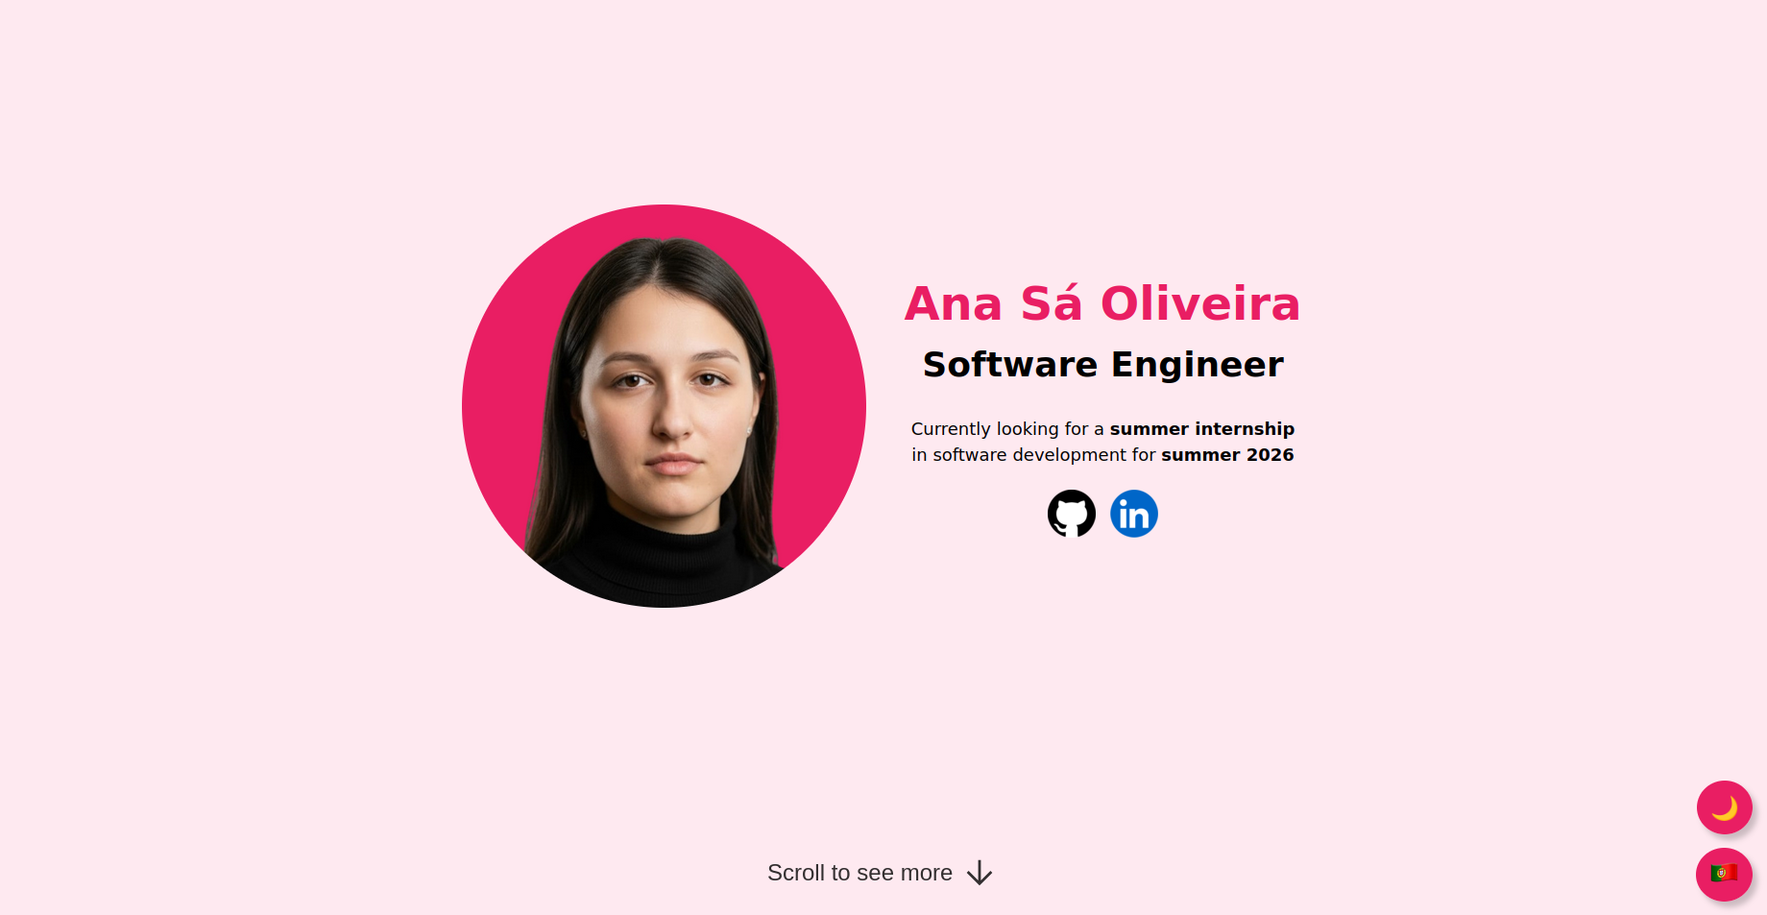
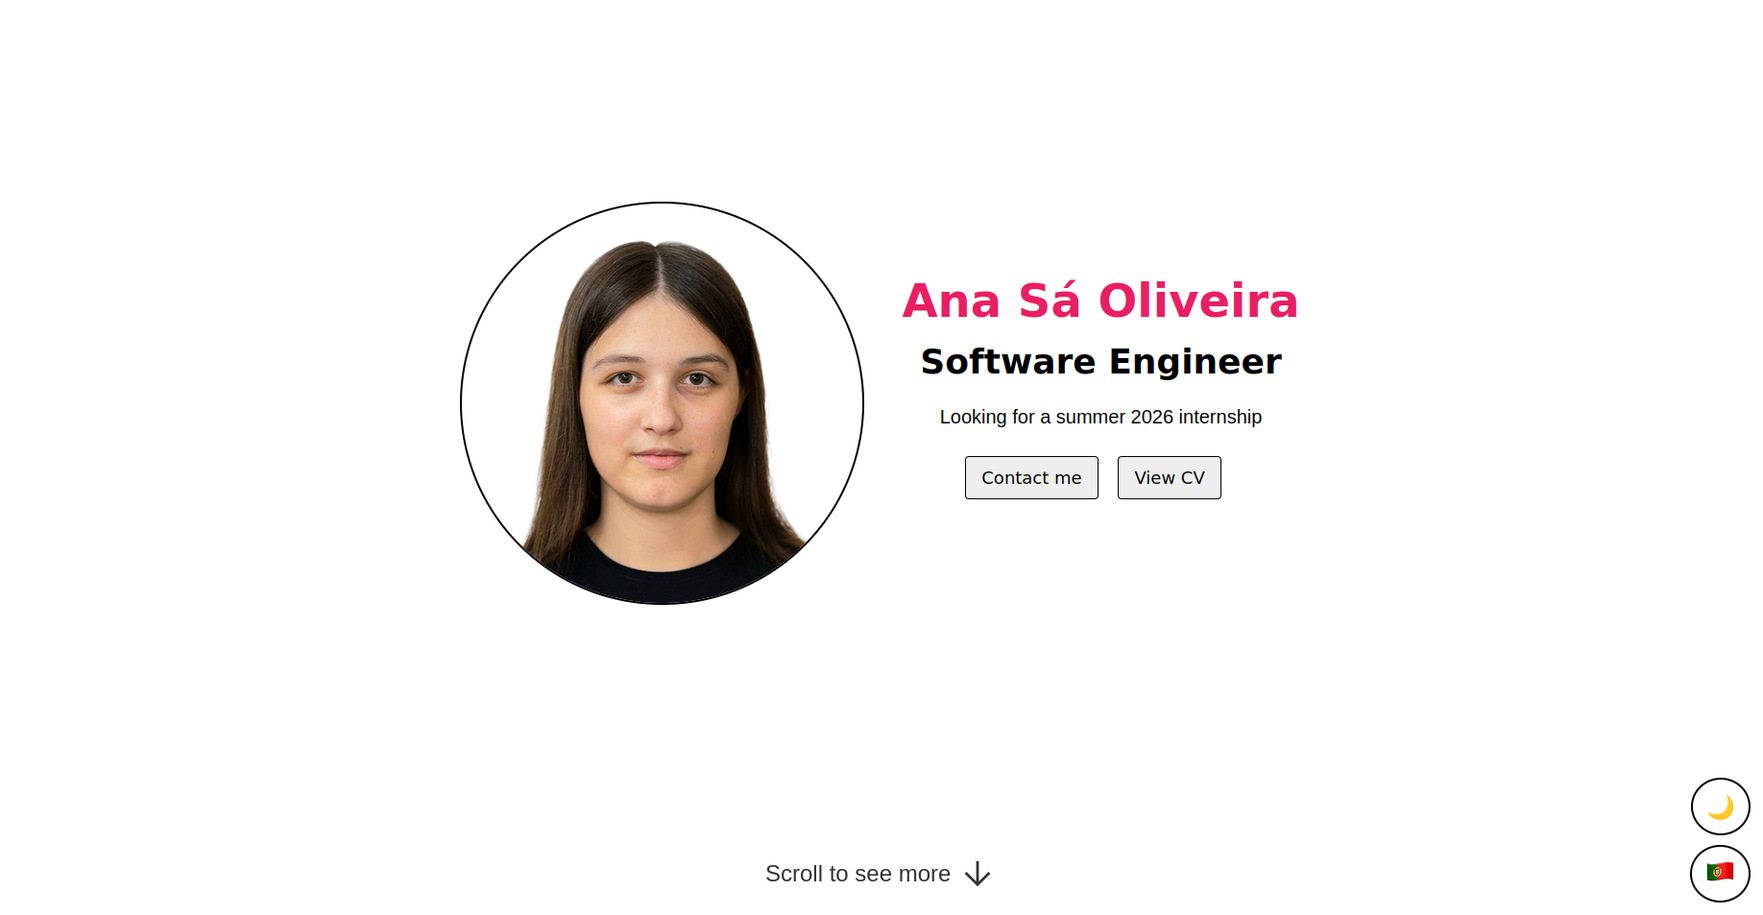
:)

Changed region(s): [[0.2484, 0.213, 0.7451, 0.6695], [0.9314, 0.852, 1.0, 1.0], [0.4346, 0.9433, 0.5588, 0.9738]]

diff --git a/index.html b/index.html
@@ -73,11 +73,10 @@
                 right: 20px;
                 padding: 10px 14px;
                 border-radius: 50%;
-                border: none;
+                border: 2px solid black;
                 font-size: 24px;
-                background-color: #e91e63;
+                background-color: #ffffff;
                 color: black;
-                box-shadow: 5px 6px 6px rgba(0,0,0,0.2);
                 cursor: pointer;
                 z-index: 9999;
             ">
@@ -90,11 +89,10 @@
                 right: 20px;
                 padding: 10px 14px;
                 border-radius: 50%;
-                border: none;
+                border: 2px solid black;
                 font-size: 24px;
-                background-color: #e91e63;
+                background-color: #ffffff;
                 color: black;
-                box-shadow: 5px 6px 6px rgba(0,0,0,0.2);
                 cursor: pointer;
                 z-index: 9999;
             ">
@@ -113,12 +111,12 @@
             const usarEscuro = temaSalvo ? temaSalvo === 'dark' : prefereEscuro;
         
             botao.textContent = usarEscuro ? '☀' : '🌙';
-            botao.style.backgroundColor = usarEscuro ? '#880732' : '#e91e63';
+            botao.style.backgroundColor = usarEscuro ? 'black' : 'white';
         
             botao.addEventListener('click', () => {
             const modoEscuroAtivo = root.classList.toggle('dark-mode');
             botao.textContent = modoEscuroAtivo ? '☀' : '🌙';
-            botao.style.backgroundColor = modoEscuroAtivo ? '#880732' : '#e91e63';
+            botao.style.backgroundColor = modoEscuroAtivo ? 'black' : 'white';
             localStorage.setItem('theme', modoEscuroAtivo ? 'dark' : 'light');
             });
 
@@ -142,7 +140,7 @@
 
         </script>
         <!-- Home -->
-        <div id="home" style=" background: #fee9f0; min-height: 100vh;display: flex; flex-direction: column;">
+        <div id="home" style=" background: white; min-height: 100vh;display: flex; flex-direction: column;">
             <!--
             <nav class="w3-bar w3-hide-small w3-hide-medium" style='display: flex; ; background-color:  transparent;'>
                 <div class="w3-bar-item" style="text-decoration: none;"></div>
@@ -202,11 +200,11 @@
                     <br w3-hide-large w3-hide-medium>
                     <div class="w3-hide-small w3-hide-medium w3-col s12 m12 l6">
                         <br>
-                        <img src="assets/img/Ana.png" class="important base-img w3-circle" style="width: 92%; max-width: 500px; height: auto;" alt="Ana Sá Oliveira">
+                        <img id="perfil" src="assets/img/Ana.png" class="important base-img w3-circle" style="width: 92%; max-width: 500px; height: auto; border: 2px solid black;" alt="Ana Sá Oliveira">
                     </div>
                     <div class="w3-hide-large w3-col s12 m12 l6">
                         <br>
-                        <img src="assets/img/Ana.png" class="important base-img w3-circle" style="width: 85%; max-width: 400px; height: auto;" alt="Ana Sá Oliveira">
+                        <img id="perfil" src="assets/img/Ana.png" class="important base-img w3-circle" style="width: 85%; max-width: 400px; height: auto; border: 2px solid black;" alt="Ana Sá Oliveira">
                     </div>
                     <div class="w3-col s12 m12 l6">
                         <br class="w3-hide-medium w3-hide-small">
@@ -249,17 +247,35 @@
                                 Software Engineer
                             </b>
                         </div>
-                        <div class="w3-hide-small w3-large" data-pt="<br>Atualmente à procura de um <b>estágio de<br>verão</b> em informática para o <b>verão 2026</b>">
+                        <div data-pt='<h4 class="w3-margin-top">Procuro estágio de verão para 2026</h4>
+                            <a href="#contact" class="w3-button w3-hover-custom w3-round w3-margin-top w3-margin-right w3-large" style="background-color: #eeeeee; color: black; border: 1px solid black;">
+                                Contactar-me
+                            </a>
+                            <a href="assets/cv/pt/cv.pdf" download class="w3-button w3-hover-custom w3-round w3-margin-top  w3-margin-right w3-large" style="background-color: #eeeeee; color: black; border: 1px solid black;">
+                                Ver CV
+                            </a>'>
+                            <h4 class="w3-margin-top">Looking for a summer 2026 internship</h4>
+                            <a href="#contact" class="w3-button w3-hover-custom w3-round w3-margin-top w3-margin-right w3-large" style="background-color: #eeeeee; color: black; border: 1px solid black;">
+                                Contact me
+                            </a>
+                            <a href="assets/cv/pt/cv.pdf" download class="w3-button w3-hover-custom w3-margin-top w3-round w3-margin-right w3-large" style="background-color: #eeeeee; color: black; border: 1px solid black;">
+                                View CV
+                            </a>
+                            <!--
                             <br>
                             Currently looking for a <b>summer internship</b>
                             <br>in software development for <b>summer 2026</b>
+                        -->
                         </div>
+                        <!--
                         <div class="w3-hide-large w3-hide-medium w3-large" data-pt="<br>À procura de um estágio de verão em informática para o verão 2026 ☀💻">
                             <br>
                             Looking for a software development
                             internship for summer 2026 ☀💻
                         </div>
+                    -->
                         <br class="w3-hide-small">
+                        <!---
                         <a class="w3-hide-small" href="https://github.com/a104437ana"style="text-decoration: none;" target="_blank" rel="noopener noreferrer">
                             <img class="important dark" src="assets/icons/GitHub.png" style="width:50px;" alt="GitHub" />
                         </a>
@@ -271,6 +287,7 @@
                                 <img class="important" src="assets/icons/LinkedIn.png" style="width:50px;" alt="LinkedIn" />
                             </a>
                         </span>
+                    -->
                         <br class="w3-hide-small">
                         <br class="w3-hide-small">
                         <br class="w3-hide-small">
@@ -321,7 +338,7 @@
             
         </div>
         <!-- About -->
-        <div id="about" style=" background: #fee9f0; border-top: 2px dashed rgb(0, 0, 0); display: flex; flex-direction: column;">
+        <div id="about" style=" background: white; border-top: 2px dashed rgb(0, 0, 0); display: flex; flex-direction: column;">
             <div style="flex: 1; display: flex; align-items: center; justify-content: center;">
                 <div class="w3-container w3-content w3-margin">
                     <br>
@@ -358,11 +375,11 @@
                         </script>
                         <style>
                             .w3-hover-custom:hover {
-                            background-color: #e91e63 !important;
-                            color: white !important;
+                            background-color: #eeeeee !important;
+                            color: black!important;
                         }
                         .dark-mode .w3-hover-custom:hover {
-                            background-color: #880732 !important;
+                            background-color: #141414 !important;
                             color: white !important;
                         
                         }
@@ -382,17 +399,17 @@
                         </span>
                         <br>
                         <br>
-                        <span data-pt='<a href="assets/cv/pt/cv.pdf" target="_blank" class="w3-button w3-hover-custom w3-round w3-margin-top w3-margin-bottom w3-margin-right w3-xlarge" style="background-color: #e91e63; color: white;">
-                            📄 Ver CV
+                        <span data-pt='<a href="assets/cv/pt/cv.pdf" target="_blank" class="w3-button w3-hover-custom w3-round w3-margin-top w3-margin-bottom w3-margin-right w3-xlarge" style="background-color: #eeeeee; color: black; border: 1px solid black;">
+                            📋 Ver CV
                         </a>'>
-                            <a href="assets/cv/en/cv.pdf" target="_blank" class="w3-button w3-hover-custom w3-round w3-margin-top w3-margin-bottom w3-margin-right w3-xlarge" style="background-color: #e91e63; color: white">
-                                📄 View CV
+                            <a href="assets/cv/en/cv.pdf" target="_blank" class="w3-button w3-hover-custom w3-round w3-margin-top w3-margin-bottom w3-margin-right w3-xlarge" style="background-color: #eeeeee; color: black; border: 1px solid black;">
+                                📋 View CV
                             </a>
                         </span>
-                        <span data-pt='<a href="assets/cv/pt/cv.pdf" download class="w3-button w3-hover-custom w3-round w3-margin-top w3-margin-bottom w3-margin-right w3-xlarge" style="background-color: #e91e63; color: white;">
+                        <span data-pt='<a href="assets/cv/pt/cv.pdf" download class="w3-button w3-hover-custom w3-round w3-margin-top w3-margin-bottom w3-margin-right w3-xlarge" style="background-color: #eeeeee; color: black; border: 1px solid black;">
                             ⬇ Download CV
                         </a>'>
-                            <a href="assets/cv/en/cv.pdf" download class="w3-button w3-hover-custom w3-round w3-margin-top w3-margin-bottom w3-margin-right w3-xlarge" style="background-color: #e91e63; color: white;">
+                            <a href="assets/cv/en/cv.pdf" download class="w3-button w3-hover-custom w3-round w3-margin-top w3-margin-bottom w3-margin-right w3-xlarge" style="background-color: #eeeeee; color: black; border: 1px solid black;">
                                 ⬇ Download CV
                             </a>
                         </span>
@@ -403,7 +420,7 @@
             </div>
         </div>
         <!-- Experience -->
-        <div id="experience" style=" background: #fee9f0; border-top: 2px dashed rgb(0, 0, 0);;display: flex; flex-direction: column;">
+        <div id="experience" style=" background: white; border-top: 2px dashed rgb(0, 0, 0);;display: flex; flex-direction: column;">
             <div style="flex: 1; display: flex; align-items: center; justify-content: center;">
                 <div class="w3-container w3-content w3-margin">
                     <br>
@@ -439,7 +456,7 @@
             </div>
         </div>
         <!-- Education -->
-        <div id="education" style=" background: #fee9f0; border-top: 2px dashed rgb(0, 0, 0);display: flex; flex-direction: column;">
+        <div id="education" style=" background: white; border-top: 2px dashed rgb(0, 0, 0);display: flex; flex-direction: column;">
             <div style="flex: 1; display: flex; align-items: center; justify-content: center;">
                 <div class="w3-container w3-content w3-margin">
                     <br>
@@ -500,7 +517,7 @@
             </div>
         </div>
         <!-- Languages -->
-        <div id="languages" style=" background: #fee9f0; border-top: 2px dashed rgb(0, 0, 0);display: flex; flex-direction: column;">
+        <div id="languages" style=" background: white; border-top: 2px dashed rgb(0, 0, 0);display: flex; flex-direction: column;">
 
             <div style="flex: 1; display: flex; align-items: center; justify-content: center;">
                 <div class="w3-container w3-content w3-margin">
@@ -543,7 +560,7 @@
             </div>
         </div>
         <!-- Skills -->
-        <div id="skills" style=" background: #fee9f0; border-top: 2px dashed rgb(0, 0, 0);;display: flex; flex-direction: column;">
+        <div id="skills" style=" background: white; border-top: 2px dashed rgb(0, 0, 0);;display: flex; flex-direction: column;">
             <div style="flex: 1; display: flex; align-items: center; justify-content: center;">
                 <div class="w3-container w3-content w3-margin">
                     <br>
@@ -656,7 +673,7 @@
             </div>
         </div>
         <!-- Projects -->
-        <div id="projects" style="background: #fee9f0; border-top: 2px dashed rgb(0, 0, 0);;display: flex; flex-direction: column;">
+        <div id="projects" style="background: white; border-top: 2px dashed rgb(0, 0, 0); border-bottom: 2px dashed rgb(0, 0, 0); ;display: flex; flex-direction: column;">
             <div style="flex: 1; display: flex; align-items: center; justify-content: center;">
                 <div class="w3-container w3-content w3-margin" style="width: 90%;">
                     <br>
@@ -874,7 +891,7 @@
         </div>
     </div>
         <!-- Contact -->
-        <div id="contact" style="background: #fee9f0; border-top: 2px dashed rgb(0, 0, 0);display: flex; flex-direction: column;">
+        <div id="contact" style="background: white;display: flex; flex-direction: column;">
             <div style="flex: 1; display: flex; align-items: center; justify-content: center;">
                 <div class="w3-container w3-content w3-margin">
                     <br>
@@ -887,7 +904,7 @@
                     <br>
                         <h4 class="w3-center">
                             <h3><img loading="lazy" src="assets/icons/Email.png" style="width:50px;" alt="Email ícone"><b> Email</b></h3>
-                            <div class="w3-container w3-margin-top w3-margin-bottom w3-round" style="border: 1px solid #000000; background-color: #F9B7CD;">
+                            <div class="w3-container w3-margin-top w3-margin-bottom w3-round" style="border: 1px solid #000000; background-color: #eeeeee;">
                                 <div class="w3-margin">
                                     <img loading="lazy" class="dark w3-right w3-margin-left" src="assets/icons/Copy.png" style="cursor: pointer;" alt="Copy ícone" onclick="copiarTexto(this,'ana.sa.oliveira7@gmail.com')">
                                     <span style="word-break: break-all;">ana.sa.oliveira7@gmail.com</span>
@@ -898,7 +915,7 @@
                             <br>
                             <br>
                             <h3><img loading="lazy" class="dark" src="assets/icons/Phone.png" style="width:50px;" alt="Phone ícone"><b data-pt=" Número de Telemóvel"> Phone Number</b></h3>
-                            <div class="w3-container w3-margin-top w3-margin-bottom w3-round" style="border: 1px solid #000000; background-color: #F9B7CD;">
+                            <div class="w3-container w3-margin-top w3-margin-bottom w3-round" style="border: 1px solid #000000; background-color: #eeeeee;">
                                 <div class="w3-margin">
                                     <img loading="lazy" class="dark w3-right w3-margin-left" src="assets/icons/Copy.png" style="cursor: pointer;" alt="Copy ícone" onclick="copiarTexto(this,'(+351) 918 983 702')">
                                     <span style="word-break: break-all;">(+351) 918 983 702</span>
@@ -909,7 +926,7 @@
                             <br>
                             <br>
                             <h3><img loading="lazy" class="dark" src="assets/icons/GitHub.png" style="width:50px;" alt="GitHub ícone" rel="noopener noreferrer"><b> GitHub</b></h3>
-                            <div class="w3-container w3-margin-top w3-margin-bottom w3-round" style="border: 1px solid #000000; background-color: #F9B7CD;">
+                            <div class="w3-container w3-margin-top w3-margin-bottom w3-round" style="border: 1px solid #000000; background-color: #eeeeee;">
                                 <div class="w3-margin">
                                     <img loading="lazy" class="dark w3-right w3-margin-left" src="assets/icons/Copy.png" style="cursor: pointer;" alt="Copy ícone" onclick="copiarTexto(this,'github.com/a104437ana')">
                                     <span style="word-break: break-all;">github.com/a104437ana</span>
@@ -920,7 +937,7 @@
                             <br>
                             <br>
                             <h3><img loading="lazy" src="assets/icons/LinkedIn.png" style="width:50px;" alt="LinkedIn ícone"><b> LinkedIn</b></h3>
-                            <div class="w3-container w3-margin-top w3-margin-bottom w3-round" style="border: 1px solid #000000; background-color: #F9B7CD;">
+                            <div class="w3-container w3-margin-top w3-margin-bottom w3-round" style="border: 1px solid #000000; background-color: #eeeeee;">
                                 <div class="w3-margin">
                                     <img loading="lazy" class="dark w3-right w3-margin-left" src="assets/icons/Copy.png" style="cursor: pointer;" alt="Copy ícone" onclick="copiarTexto(this,'www.linkedin.com/in/ana-sá-oliveira')">
                                     <span style="word-break: break-all;">www.linkedin.com/in/ana-sá-oliveira</span>
@@ -961,26 +978,26 @@
                                 
                                 <span id="erro-mensagem" style="color:#ff0088;display:none;"><b data-pt="Por favor, insira a sua mensagem.">Please enter your message.</b></span>
                                 <br>
-                                <span data-pt='<button class="w3-button w3-hover-custom1 w3-round" type="submit" style="background-color: #F9B7CD; border: 1px solid black ;">Enviar</button>'>
-                                    <button class="w3-button w3-hover-custom1 w3-round" type="submit" style="background-color: #F9B7CD; border: 1px solid black ;">Send</button>
+                                <span data-pt='<button class="w3-button w3-round w3-hover-custom1" type="submit" style="background-color: #eeeeee; border: 1px solid black ;">Enviar</button>'>
+                                    <button class="w3-button w3-round w3-hover-custom1" type="submit" style="background-color: #eeeeee; border: 1px solid black ; color: black;">Send</button>
                                 </span>
                             </form>
                             <div id="popup1">
                             <div class="w3-margin" style="max-width: 400px;">
                                 <p data-pt="A sua mensagem foi enviada com sucesso! ✅">Your message has been sent successfully! ✅</p>
-                                <button class="w3-button w3-hover-custom1 w3-round" style="background-color: #F9B7CD; border: none;" onclick="popup1.style.display='none'; desbloquearScroll()">Ok</button>
+                                <button class="w3-button w3-hover-custom1 w3-round" style="background-color: #eeeeee; border: 1px solid black;" onclick="popup1.style.display='none'; desbloquearScroll()">Ok</button>
                             </div>
                             </div>
                             <div id="popup2">
                                 <div class="w3-margin" style="max-width: 400px;">
                                     <p data-pt="⚠ Ocorreu um problema ao enviar a sua mensagem. Por favor, tente outros métodos de contacto, como o email.">⚠ There was a problem sending your message. Please try another contact method, such as email.</p>
-                                    <button class="w3-button w3-hover-custom1 w3-round" style="background-color: #F9B7CD; border: none;" onclick="popup2.style.display='none'; desbloquearScroll()">Ok</button> 
+                                    <button class="w3-button w3-hover-custom1 w3-round" style="background-color: #eeeeee; border: 1px solid black;" onclick="popup2.style.display='none'; desbloquearScroll()">Ok</button> 
                                 </div>
                                 </div>
                             <div id="popup3">
                                 <div class="w3-margin" style="max-width: 400px;">
                                     <p data-pt="❌ Erro de rede.<br>Por favor, tente novamente mais tarde.">❌ Network error. Please try again later.</p>
-                                    <button class="w3-button w3-hover-custom1 w3-round" style="background-color: #F9B7CD; border: none;" onclick="popup3.style.display='none'; desbloquearScroll()">Ok</button>
+                                    <button class="w3-button w3-hover-custom1 w3-round" style="background-color: #eeeeee; border: 1px solid black;" onclick="popup3.style.display='none'; desbloquearScroll()">Ok</button>
                                 </div>
                                 </div>
                             <style>
@@ -1111,7 +1128,7 @@
             </div>
         </div>
 
-        <div id="end" style=" background: #fee9f0; border-top: 2px dashed rgb(0, 0, 0);;display: flex; flex-direction: column;">
+        <div id="end" style=" background: white; border-top: 2px dashed rgb(0, 0, 0);;display: flex; flex-direction: column;">
             <div style="flex: 1; display: flex; align-items: center; justify-content: center;">
                 <div class="w3-container w3-content w3-margin-left w3-margin-right w3-margin-top" style="width:900px;">
                         <br>

diff --git a/assets/css/style.css b/assets/css/style.css
@@ -236,7 +236,7 @@ hr{border:0;border-top:1px solid #eee;margin:20px 0}
     color: #ffffff !important;
   }
 
-  .dark-mode [style*="background: #fee9f0"] {
+  .dark-mode [style*="background: white"] {
     background: #000000 !important;
     border-top: 2px solid white !important;
   }
@@ -245,20 +245,10 @@ hr{border:0;border-top:1px solid #eee;margin:20px 0}
     border-top: none !important;
   }
 
-  .dark-mode [style*="background-color: #ff94bd"] {
-    background-color: #e91e63 !important;
-  }
-
-  .dark-mode [style*="background-color: #F9B7CD"] {
-    background-color: #880732 !important;
-  }
-
-  .dark-mode [style*="background-color: #e91e63"] {
-    background-color: #880732 !important;
-  }
-
-  .dark-mode [style*="background-color: #FC8EAC"] {
-    background-color: #880732 !important;
+  .dark-mode [style*="background-color: #eeeeee"] {
+    background-color: #141414 !important;
+    border: 1px solid white !important;
+    color: #ffffff !important;
   }
 
   .w3-card-4 {
@@ -289,16 +279,27 @@ hr{border:0;border-top:1px solid #eee;margin:20px 0}
   }
 
   .dark-mode [id*=lang-toggle] {
-    background-color: #880732 !important;
+    background-color: black !important;
+  }
+
+    .dark-mode [id*=perfil] {
+    border: 2px solid white !important;
+  }
+
+  .dark-mode [class*=button-animated] {
+    border: 1px solid white !important;
   }
 
   .w3-hover-custom1:hover {
-      background-color: #F9B7CD !important;
+      background-color: #eeeeee !important;
+      border: 1px solid black !important;
       color: black !important;
   }
-  .dark-mode .w3-hover-custom1:hover, .dark-mode .w3-hover-custom1 {
-      background-color: #880732 !important;
-      color: white !important;
+
+    .dark-mode .w3-hover-custom1:hover {
+      background-color: #141414 !important;
+      border: 1px solid white !important;
+      color: rgb(255, 255, 255) !important;
   }
 
   .dark-mode #home {
@@ -324,5 +325,5 @@ hr{border:0;border-top:1px solid #eee;margin:20px 0}
     display: none;
   }
 */
-  #loader { position: fixed; inset: 0; background: #fee9f0; display: flex; justify-content: center; align-items: center; z-index: 9999; }
+  #loader { position: fixed; inset: 0; background: white; display: flex; justify-content: center; align-items: center; z-index: 9999; }
   .dark-mode #loader { background: black !important; }

diff --git a/README.md b/README.md
@@ -5,7 +5,9 @@ This is my portfolio website built to showcase my work, skills and projects.
 
 [ana.is-a.dev](https://ana.is-a.dev/)
 
-[![Website](site.png)](https://ana.is-a.dev/)
+<a href="https://ana.is-a.dev/">
+<img src= "site.png" style="border: 1px solid black;">
+</a>
 
 ## Things I Plan to Do (If I have time)
 - [ ] Add more projects to the portfolio
